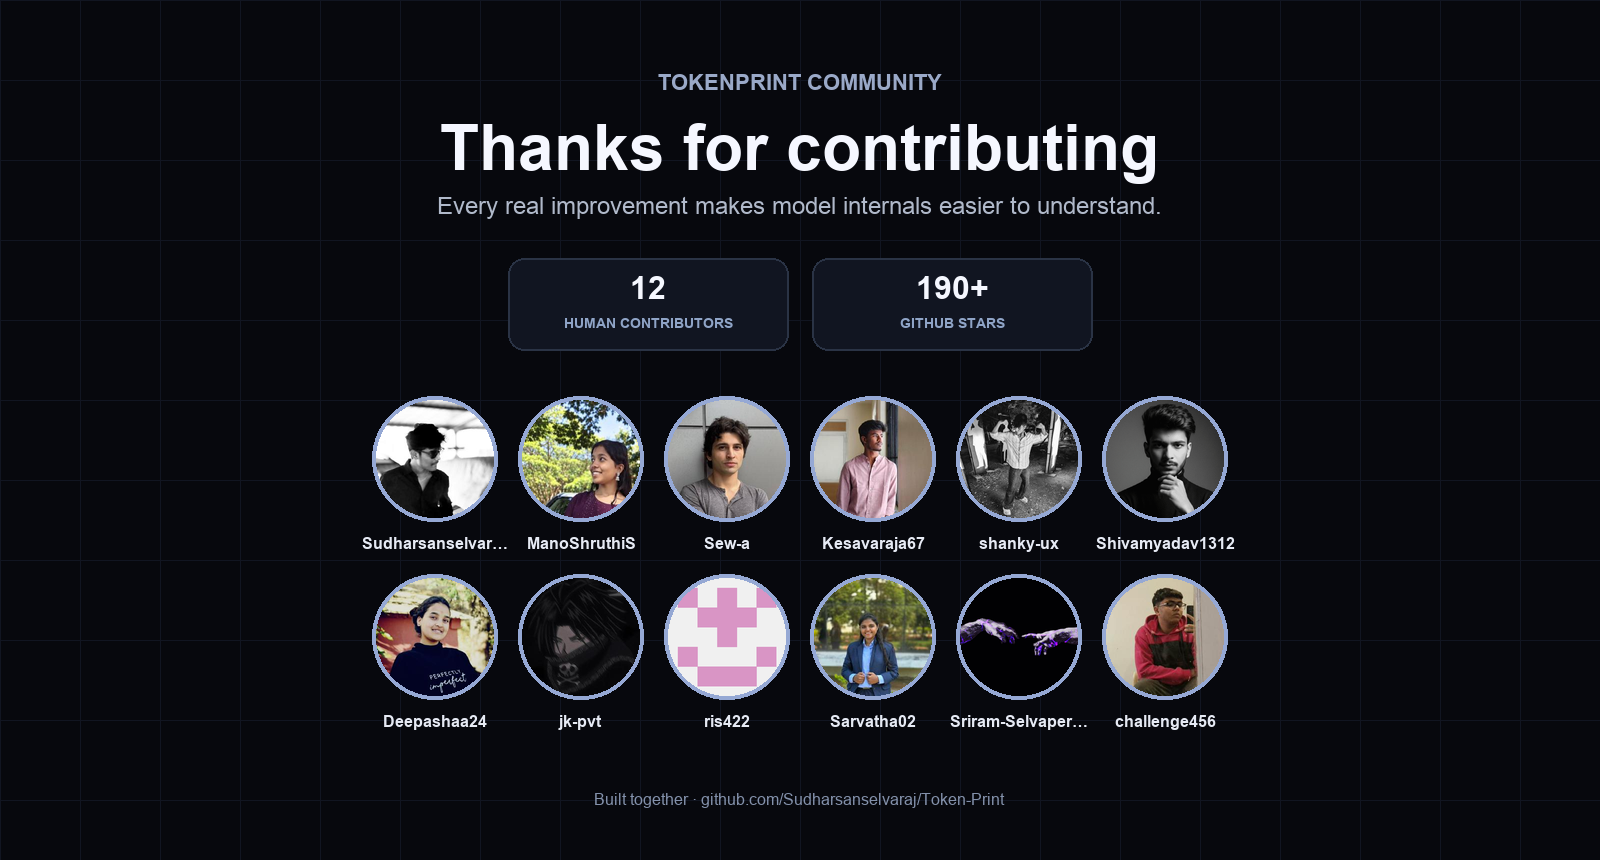
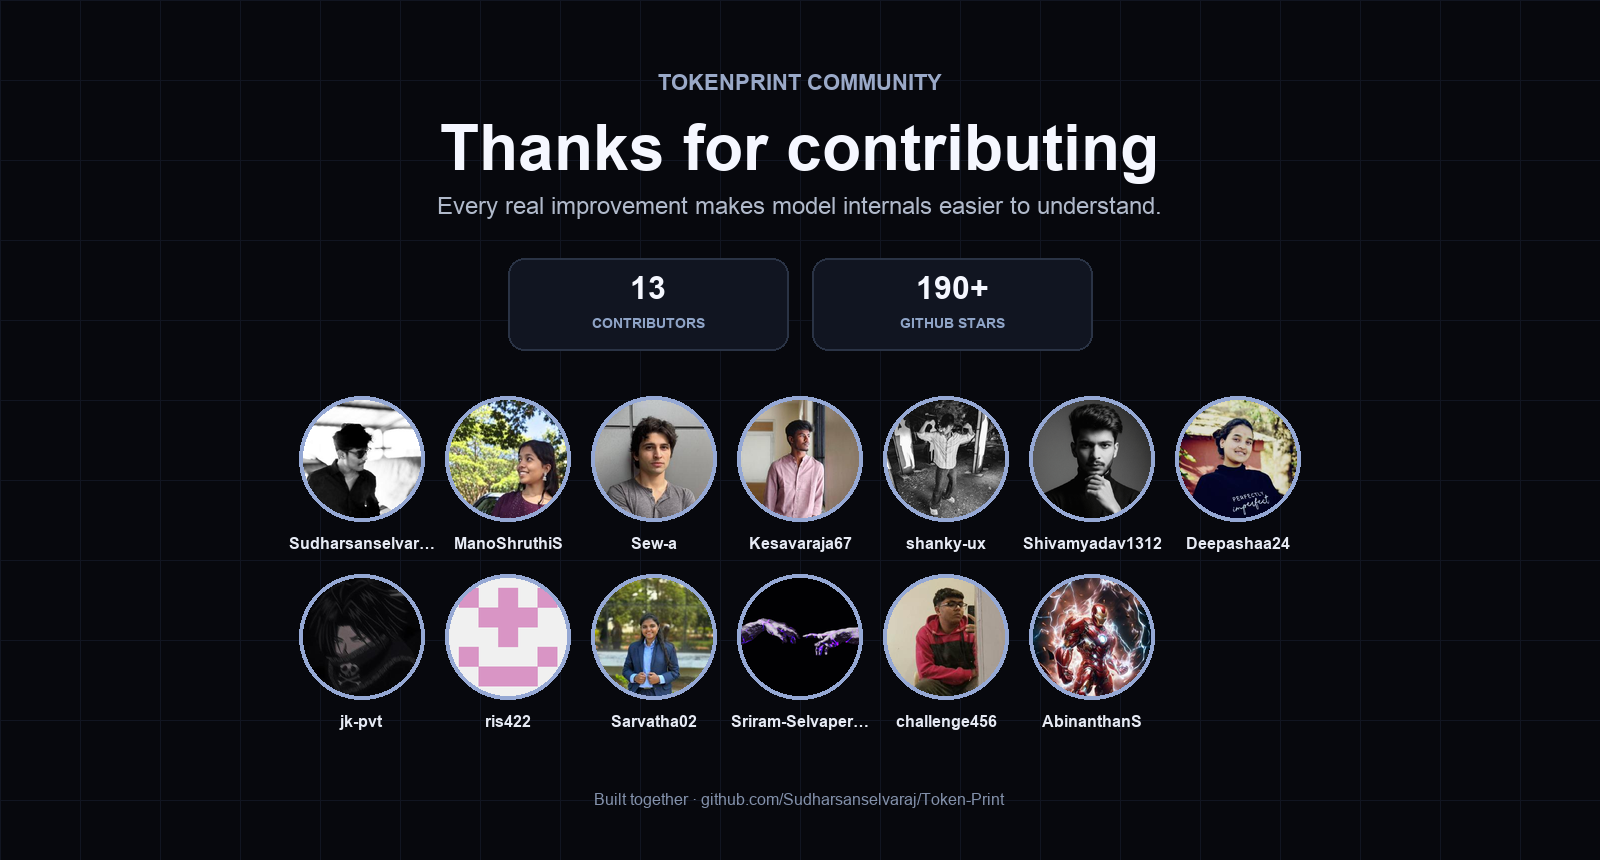
docs: include all non-bot contributors in poster

Changed region(s): [[0.1875, 0.4535, 0.8125, 0.6349], [0.1875, 0.6651, 0.7812, 0.8465], [0.3438, 0.3628, 0.4688, 0.393]]

diff --git a/scripts/generate_contributor_poster.py b/scripts/generate_contributor_poster.py
@@ -1,5 +1,5 @@
 #!/usr/bin/env python3
-"""Render TokenPrint's human-contributor poster from GitHub's public API."""
+"""Render TokenPrint's non-bot contributor poster from GitHub's public API."""
 
 from __future__ import annotations
 
@@ -18,6 +18,11 @@ OUTPUT = ROOT / ".github" / "assets" / "contributors.png"
 REPOSITORY = os.environ.get("GITHUB_REPOSITORY", "Sudharsanselvaraj/Token-Print")
 API = f"https://api.github.com/repos/{REPOSITORY}"
 SIZE = (1600, 860)
+# GitHub's REST contributor list currently omits this authored main-branch
+# commit. Keep the contributor visible while still resolving their avatar from
+# GitHub rather than inventing one.
+EXTRA_CONTRIBUTOR_LOGINS = ("AbinanthanS",)
+EXCLUDED_LOGINS = {"claude"}
 
 
 def request(url: str) -> bytes:
@@ -66,9 +71,20 @@ def avatar(url: str, diameter: int) -> Image.Image:
 def main() -> int:
     repo = json.loads(request(API))
     contributors = json.loads(request(f"{API}/contributors?per_page=100"))
-    humans = [person for person in contributors if person.get("type") == "User" and not person["login"].endswith("[bot]")]
-    if not humans:
-        raise RuntimeError("GitHub returned no human contributors")
+    people = [
+        person for person in contributors
+        if person.get("type") == "User"
+        and not person["login"].endswith("[bot]")
+        and person["login"].casefold() not in EXCLUDED_LOGINS
+    ]
+    present = {person["login"].casefold() for person in people}
+    for login in EXTRA_CONTRIBUTOR_LOGINS:
+        if login.casefold() not in present:
+            person = json.loads(request(f"https://api.github.com/users/{login}"))
+            if person.get("type") == "User":
+                people.append(person)
+    if not people:
+        raise RuntimeError("GitHub returned no non-bot contributors")
 
     image = Image.new("RGB", SIZE, "#07080d")
     draw = ImageDraw.Draw(image)
@@ -81,7 +97,7 @@ def main() -> int:
     centered(draw, "Thanks for contributing", 112, font(64, bold=True), "#f5f7ff")
     centered(draw, "Every real improvement makes model internals easier to understand.", 192, font(24), "#b0b9ca")
 
-    cards = [("HUMAN CONTRIBUTORS", str(len(humans))), ("GITHUB STARS", f"{repo['stargazers_count']}+")]
+    cards = [("CONTRIBUTORS", str(len(people))), ("GITHUB STARS", f"{repo['stargazers_count']}+")]
     card_width, card_height, gap = 280, 92, 24
     left = (SIZE[0] - (card_width * len(cards) + gap)) // 2
     for index, (label, value) in enumerate(cards):
@@ -94,12 +110,12 @@ def main() -> int:
         draw.text((centered_x - (label_box[2] - label_box[0]) // 2, 315), label, font=font(14, bold=True), fill="#8fa4c7")
 
     diameter, spacing = 118, 28
-    columns = min(6, len(humans))
-    rows = (len(humans) + columns - 1) // columns
+    columns = min(7, len(people))
+    rows = (len(people) + columns - 1) // columns
     grid_width = columns * diameter + (columns - 1) * spacing
     grid_left = (SIZE[0] - grid_width) // 2
     grid_top = 400
-    for index, person in enumerate(humans):
+    for index, person in enumerate(people):
         row, column = divmod(index, columns)
         x = grid_left + column * (diameter + spacing)
         y = grid_top + row * 178
@@ -115,7 +131,7 @@ def main() -> int:
     centered(draw, "Built together · github.com/Sudharsanselvaraj/Token-Print", 790, font(16), "#8391ab")
     OUTPUT.parent.mkdir(parents=True, exist_ok=True)
     image.save(OUTPUT, optimize=True)
-    print(f"Wrote {OUTPUT.relative_to(ROOT)} for {len(humans)} human contributors")
+    print(f"Wrote {OUTPUT.relative_to(ROOT)} for {len(people)} contributors")
     return 0
 
 

diff --git a/README.md b/README.md
@@ -126,7 +126,7 @@ send a PR. First-timers genuinely welcome.
 <!-- CONTRIBUTORS:START -->
 <div align="center">
   <a href="https://github.com/Sudharsanselvaraj/Token-Print/graphs/contributors">
-    <img src=".github/assets/contributors.png" alt="Thanks for contributing — TokenPrint's human contributors" width="1000" />
+    <img src=".github/assets/contributors.png" alt="Thanks for contributing — TokenPrint contributors" width="1000" />
   </a>
 </div>
 <!-- CONTRIBUTORS:END -->
